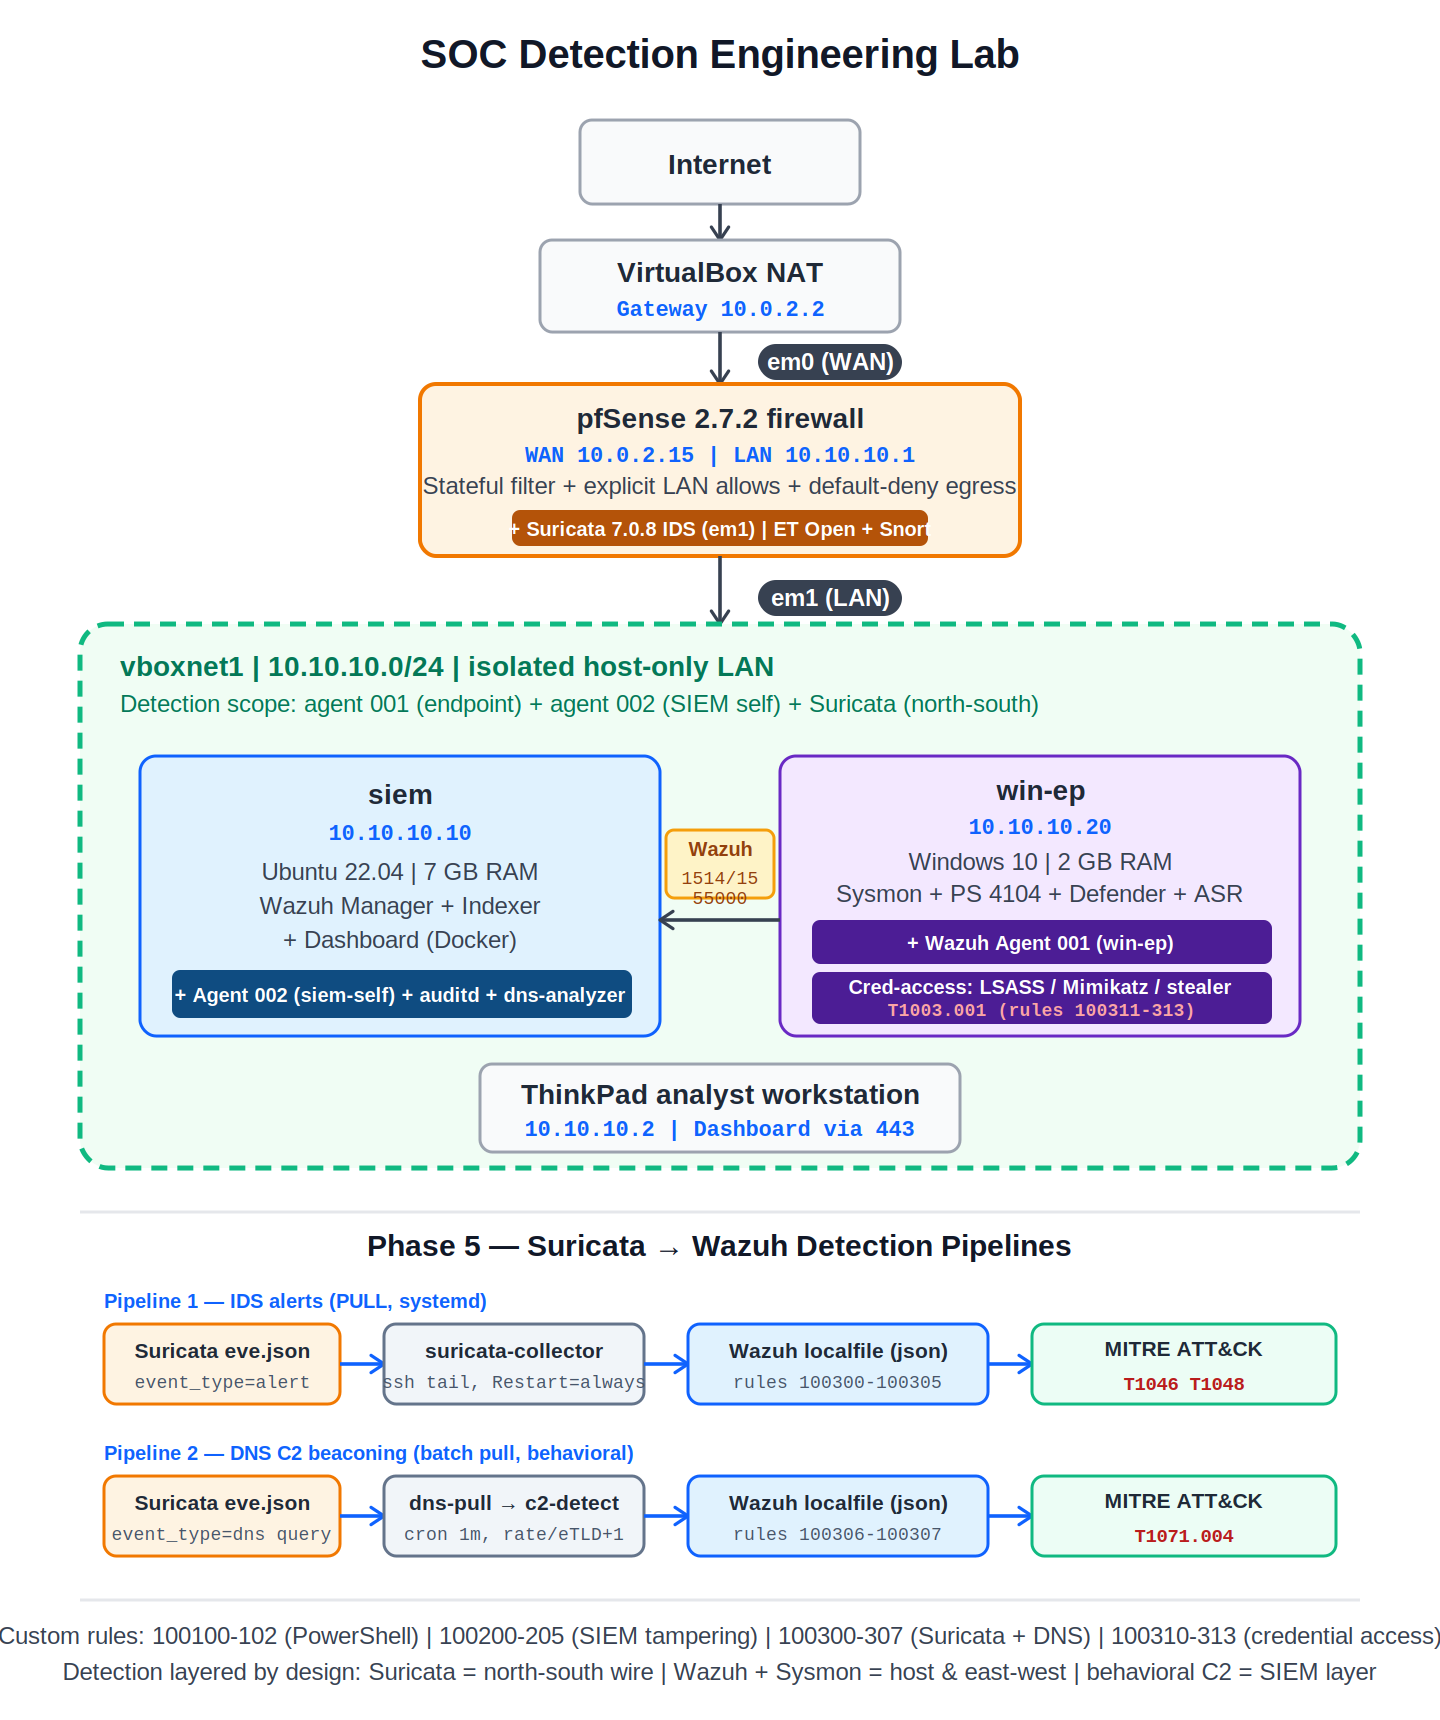
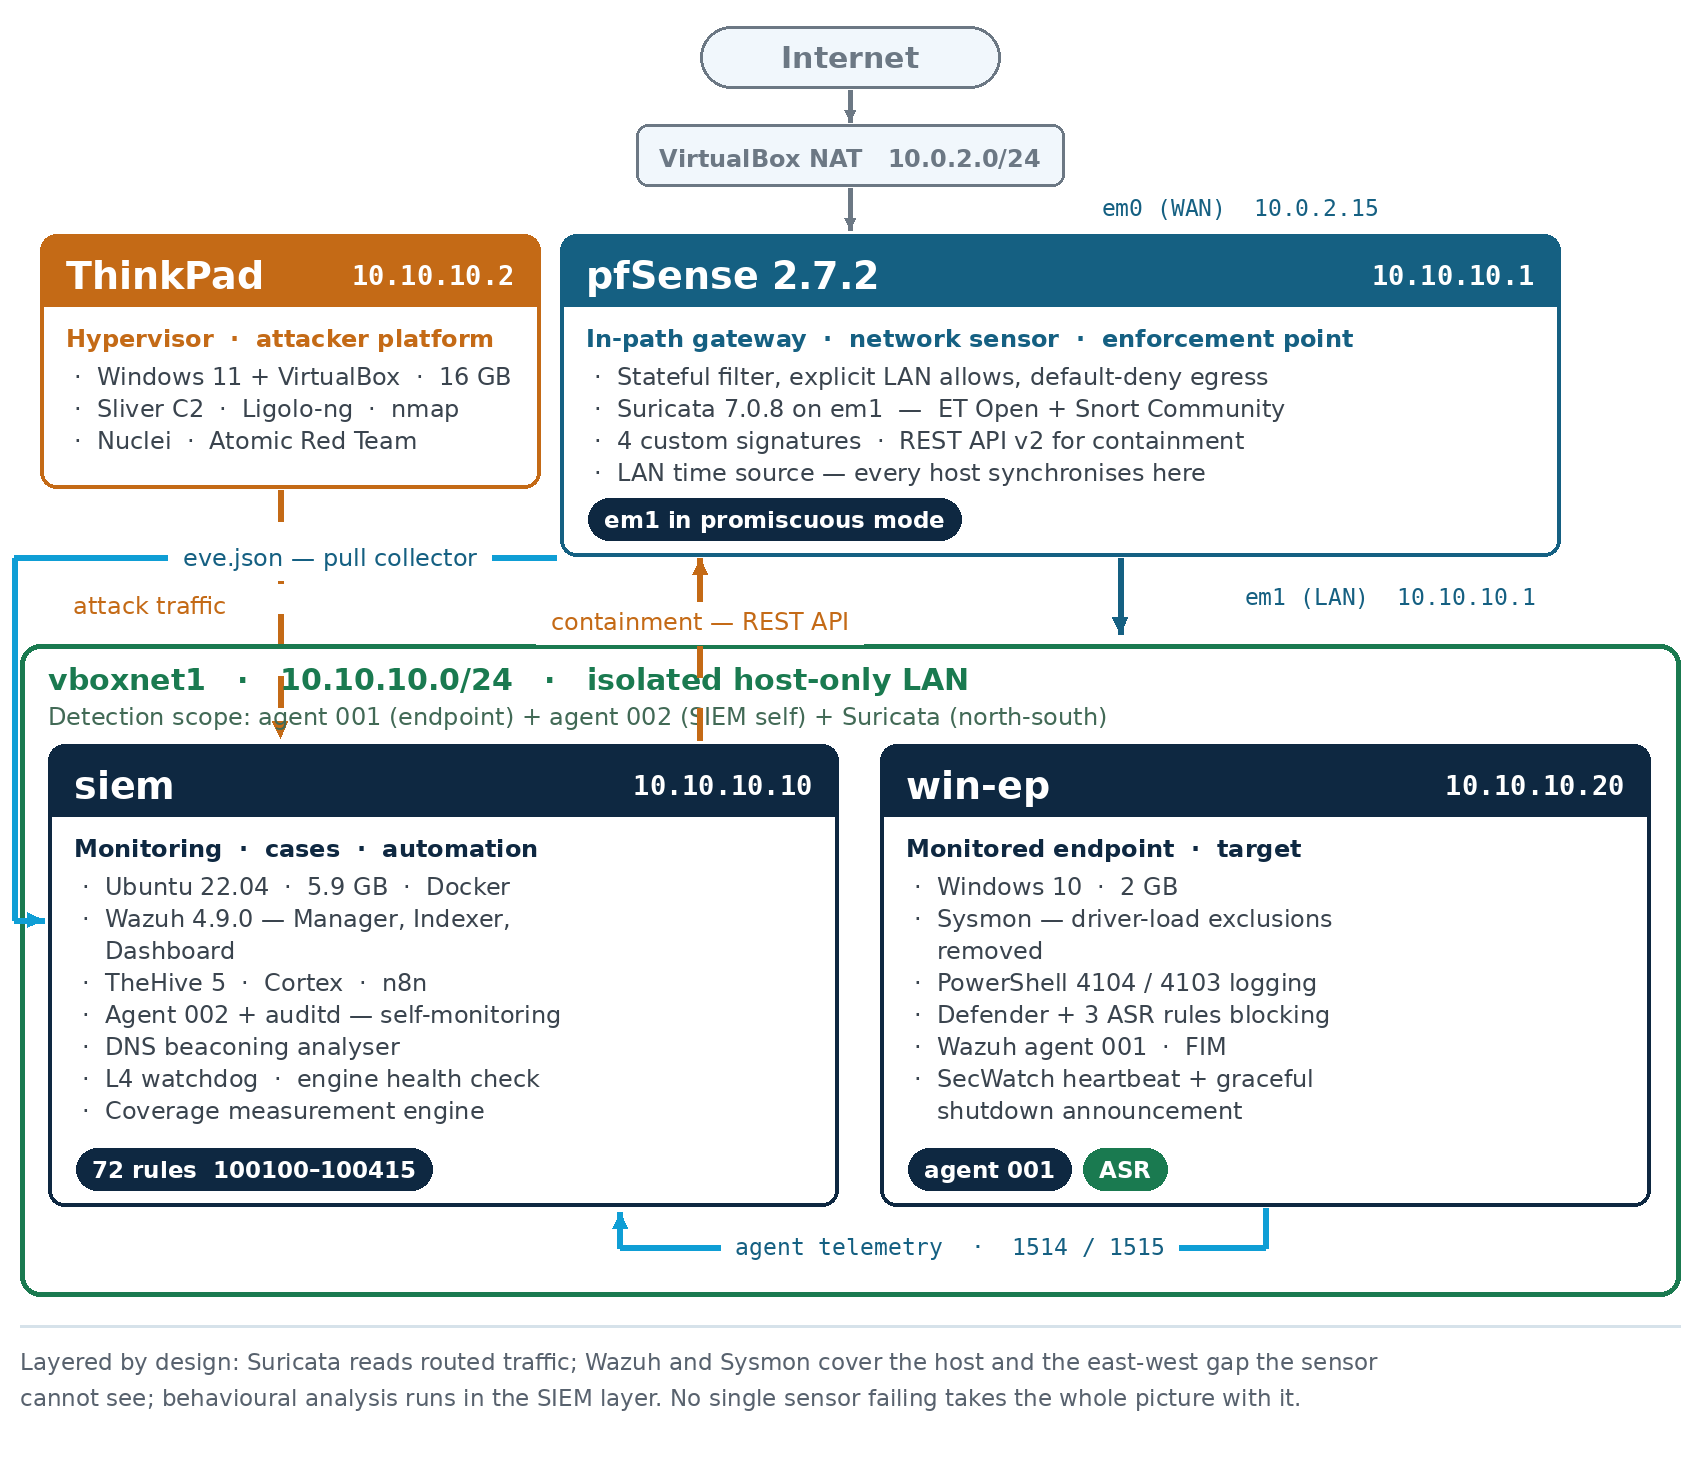
docs: replace the architecture diagram with one that matches the current lab
The committed diagram dated from mid-July and showed the lab as it stood ten
weeks and several phases ago: no case management, no orchestration, no
enrichment, no adversary emulation, no resilience layer and no coverage
engine. Its rule range stopped at 100313 against a current 100415.

Two facts in it were also wrong. The SIEM was listed at 7 GB and is
allocated 5.9 GB, and the hypervisor host was labelled an analyst
workstation when its security-relevant role is the attacker platform,
deliberately outside the LAN.

The replacement keeps what the old diagram did better - interface names,
WAN and LAN addressing, service ports - and adds the response and
resilience layers. Every address, interface and port in it was read from
the running lab rather than from notes.

diff --git a/README.md b/README.md
@@ -304,7 +304,7 @@ homelab-mdr/
 │       ├── soar-block.py                # host-isolation blocker (allowlist + circuit breaker)
 │       └── cron-dns-pipeline            # cron: pull && analyze, every minute
 ├── docs/
-│   ├── architecture.svg / architecture.png
+│   ├── architecture.png                  # lab architecture: network, hosts, traffic paths
 │   ├── phase7-attack-scenario.md        # Phase 7 design doc: threat profile, stage plan, rule sources
 │   ├── phase-progress.md                # phase-by-phase completion tracker
 │   ├── phase5-session2-pipeline.md      # Suricata -> Wazuh pipeline build notes
